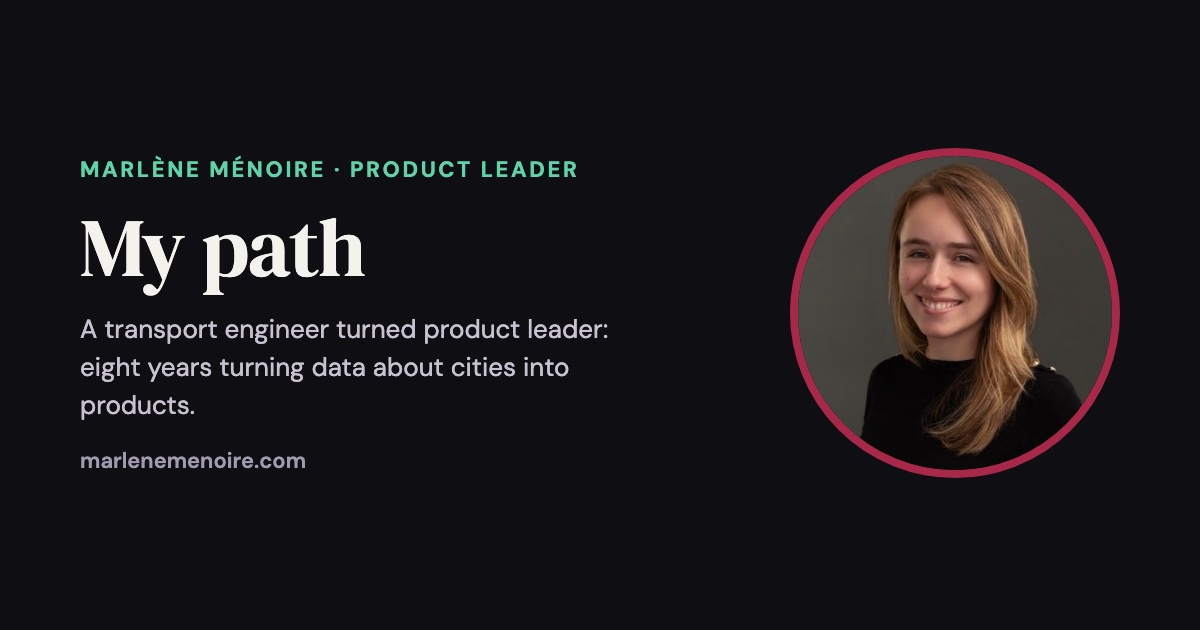
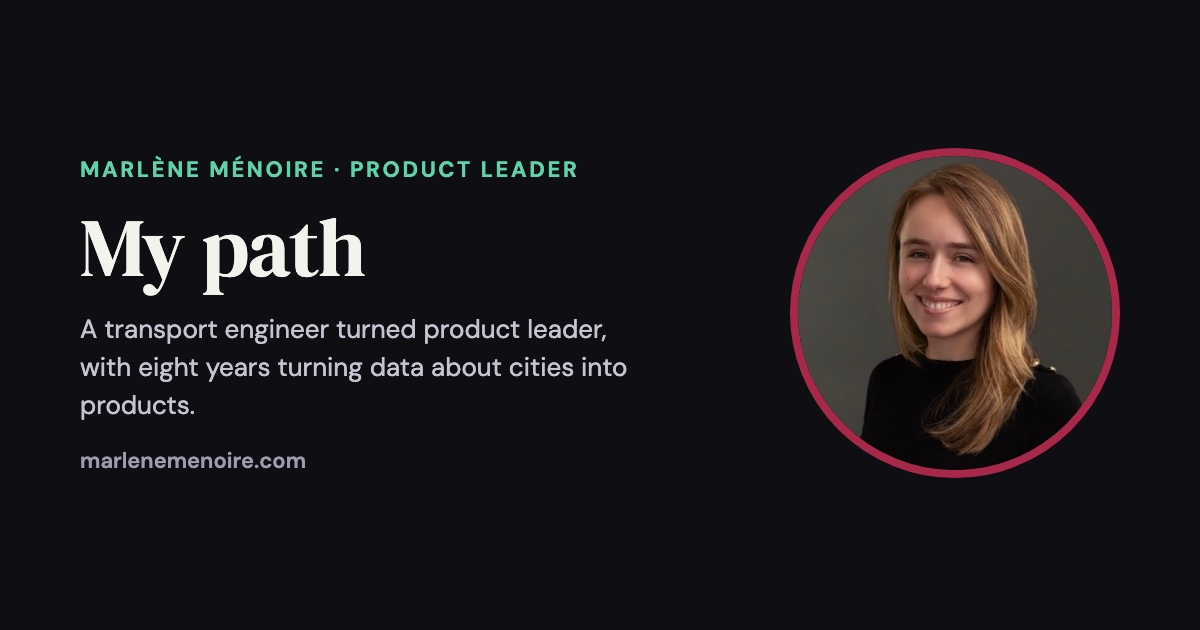
Moins de deux-points dans les textes
Phrases sur Singapour, accroche de Mon parcours, texte Explain,
descriptions et images de partage reformulées sans deux-points ; seul
le titre « Mon métier : choisir quoi construire » le garde.

Changed region(s): [[0.0617, 0.573, 0.5242, 0.6032]]

diff --git a/site.js b/site.js
@@ -17,8 +17,8 @@ const TEXTS = {
     title1: "L'IA accélère le code.",
     title2: 'Mon métier\u00a0: choisir quoi construire.',
     bio: "Product leader depuis 8 ans sur des produits data pour la ville (mobilité, commerce, bâtiment), je mets en place les systèmes d'IA qui laissent aux équipes produit le temps des vraies décisions.",
-    bio2: "Basée à Singapour\u00a0: avec plaisir pour un café si vous êtes dans la région.",
-    bio3: "Mes sujets de prédilection\u00a0: le produit et l'IA. Mais toujours curieuse de découvrir de nouveaux domaines.",
+    bio2: "Basée à Singapour, avec plaisir pour un café si vous êtes dans la région.",
+    bio3: "Mes sujets de prédilection sont le produit et l'IA, mais je reste curieuse de découvrir de nouveaux domaines.",
     pathLabel: 'Mon parcours',
     stonalYears: '2023 – auj.',
     stonalRole: 'PM, Head of Product, puis CPO en mission via Freelance.com',
@@ -103,7 +103,7 @@ const TEXTS = {
     r8t: "Partout, même hors ligne",
     r8d: "S'installe sur ton téléphone, fonctionne sans connexion à la salle, en français et en anglais.",
     aboutPageTitle: 'Mon parcours · Marlène Ménoire',
-    aboutTagline: "Ingénieure transport devenue product leader : huit ans à transformer des données sur la ville en produits qui aident à décider.",
+    aboutTagline: "Ingénieure transport devenue product leader, avec huit ans passés à transformer des données sur la ville en produits qui aident à décider.",
     seeApps: 'Voir mes applis',
     backHome: '← Accueil',
     xpLabel: 'Expériences',
@@ -115,7 +115,7 @@ const TEXTS = {
     mytrafficText: "Des données de fréquentation et de trafic pour aider les enseignes à choisir où ouvrir. J'ai repensé l'expérience à partir des besoins de leurs équipes d'expansion.",
     fig5: "du chiffre d'affaires", fig6b: 'Mensuel → hebdo', fig6: "fréquence d'usage",
     explainJob: 'Consultante, modélisation des transports',
-    explainText: 'Des modèles de transport multimodaux pour les pouvoirs publics : le Grand Paris Express, les prévisions nationales de trafic routier, la refonte d’un réseau ferroviaire régional.',
+    explainText: 'Des modèles de transport multimodaux pour les pouvoirs publics, dont le Grand Paris Express, les prévisions nationales de trafic routier et la refonte d’un réseau ferroviaire régional.',
     aiWorkTitle: "L'IA, au travail",
     ai1t: 'Une base de connaissances générée depuis le code', ai1d: "La référence commune de l'entreprise et des outils d'IA. Elle écrit seule le guide utilisateur et les notes de version.",
     ai2t: 'Les retours clients pré-analysés', ai2d: 'Consolidés pour les équipes, avec les cas simples traités automatiquement. En cours.',
@@ -128,8 +128,8 @@ const TEXTS = {
     paperSub: 'Article scientifique, première autrice · Transportation Research Procedia, Elsevier, 2020',
     paperText: "Écrit lors d'un stage de recherche à Polytechnique Montréal, avec les données de Communauto. Au-delà du nombre de voitures, la marchabilité, la démographie et l'accès au bus comptent.",
     aboutCtaTitle: "Envie d'en parler ?",
-    aboutCtaText: "Basée à Singapour\u00a0: avec plaisir pour un café si vous êtes dans la région.",
-    aboutCtaText2: "Mes sujets de prédilection\u00a0: le produit et l'IA. Mais toujours curieuse de découvrir de nouveaux domaines.",
+    aboutCtaText: "Basée à Singapour, avec plaisir pour un café si vous êtes dans la région.",
+    aboutCtaText2: "Mes sujets de prédilection sont le produit et l'IA, mais je reste curieuse de découvrir de nouveaux domaines.",
     legalLink: "Mentions et confidentialité",
     mentionsPageTitle: "Mentions et confidentialité · Marlène Ménoire",
     legalTitle: "Mentions et confidentialité",
@@ -163,8 +163,8 @@ const TEXTS = {
     title1: 'AI made code fast.',
     title2: 'My job: deciding what to build.',
     bio: 'A product leader for 8 years on data products for cities (mobility, retail, buildings), I set up the AI systems that give product teams time for the decisions that matter.',
-    bio2: "Based in Singapore: happy to grab a coffee if you're in the area.",
-    bio3: "My favourite topics are product and AI, but I'm always curious to explore new fields.",
+    bio2: "Based in Singapore, happy to grab a coffee if you're in the area.",
+    bio3: "My favourite topics are product and AI, and I'm always curious to explore new fields.",
     pathLabel: 'My path',
     stonalYears: '2023 – now',
     stonalRole: 'PM, Head of Product, then CPO on assignment via Freelance.com',
@@ -249,7 +249,7 @@ const TEXTS = {
     r8t: "Everywhere, even offline",
     r8d: "Installs on your phone, works without a connection at the gym, in English and French.",
     aboutPageTitle: 'My path · Marlène Ménoire',
-    aboutTagline: 'A transport engineer turned product leader: eight years turning data about cities into products that help people decide.',
+    aboutTagline: "A transport engineer turned product leader, with eight years spent turning data about cities into products that help people decide.",
     seeApps: 'See my apps',
     backHome: '← Home',
     xpLabel: 'Experience',
@@ -261,7 +261,7 @@ const TEXTS = {
     mytrafficText: "Footfall and traffic data to help retailers choose where to open. I redesigned the experience around what their expansion teams needed to get done.",
     fig5: 'of company revenue', fig6b: 'Monthly → weekly', fig6: 'usage',
     explainJob: 'Consultant, transport modelling',
-    explainText: 'Multimodal transport models for public authorities: the Grand Paris Express, national road traffic forecasts, a regional rail redesign.',
+    explainText: 'Multimodal transport models for public authorities, including the Grand Paris Express, national road traffic forecasts and a regional rail redesign.',
     aiWorkTitle: 'AI, at work',
     ai1t: 'A knowledge base generated from the code', ai1d: 'The shared reference for the company and its AI tools. It writes the user guide and release notes on its own.',
     ai2t: 'Customer feedback, pre-analysed', ai2d: 'Consolidated for the teams, with simple cases handled automatically. In progress.',
@@ -274,8 +274,8 @@ const TEXTS = {
     paperSub: 'Peer-reviewed paper, lead author · Transportation Research Procedia, Elsevier, 2020',
     paperText: 'Written during a research internship at Polytechnique Montréal, with data from Communauto. Beyond the number of cars, walkability, demographics and bus access all matter.',
     aboutCtaTitle: 'Want to talk?',
-    aboutCtaText: "Based in Singapore: happy to grab a coffee if you're in the area.",
-    aboutCtaText2: "My favourite topics are product and AI, but I'm always curious to explore new fields.",
+    aboutCtaText: "Based in Singapore, happy to grab a coffee if you're in the area.",
+    aboutCtaText2: "My favourite topics are product and AI, and I'm always curious to explore new fields.",
     legalLink: "Legal notice and privacy",
     mentionsPageTitle: "Legal notice and privacy · Marlène Ménoire",
     legalTitle: "Legal notice and privacy",

diff --git a/fr/about.html b/fr/about.html
@@ -5,7 +5,7 @@
 <meta charset="UTF-8">
 <meta name="viewport" content="width=device-width, initial-scale=1.0">
 <title>Mon parcours · Marlène Ménoire</title>
-<meta name="description" content="Le parcours de Marlène Ménoire : ingénieure transport (ENTPE), puis product leader chez Mytraffic et Stonal. Huit ans de produits data pour la ville.">
+<meta name="description" content="Le parcours de Marlène Ménoire, ingénieure transport (ENTPE) devenue product leader chez Mytraffic et Stonal. Huit ans de produits data pour la ville.">
 <meta name="theme-color" content="#0f0e13">
 <link rel="icon" type="image/svg+xml" href="../favicon.svg">
 <link rel="apple-touch-icon" href="/apple-touch-icon.png">
@@ -23,7 +23,7 @@
 <link rel="alternate" hreflang="fr" href="https://marlenemenoire.com/fr/about.html">
 <link rel="alternate" hreflang="x-default" href="https://marlenemenoire.com/about.html">
 <meta property="og:title" content="Mon parcours · Marlène Ménoire">
-<meta property="og:description" content="Ingénieure transport devenue product leader : huit ans à transformer des données sur la ville en produits qui aident à décider.">
+<meta property="og:description" content="Ingénieure transport devenue product leader, avec huit ans passés à transformer des données sur la ville en produits qui aident à décider.">
 <meta property="og:image" content="https://marlenemenoire.com/img/og-about-fr.jpg">
 <meta name="twitter:card" content="summary_large_image">
 <link rel="preconnect" href="https://fonts.googleapis.com">
@@ -52,7 +52,7 @@
     <img class="about-photo" src="../photo.jpg" alt="Marlène Ménoire" width="220" height="220" onerror="this.remove()">
     <span class="kicker" data-i18n="kicker">Bonjour, je suis Marlène</span>
     <h1 data-i18n="aboutName">Mon parcours</h1>
-    <p class="detail-tagline" data-i18n="aboutTagline">Ingénieure transport devenue product leader : huit ans à transformer des données sur la ville en produits qui aident à décider.</p>
+    <p class="detail-tagline" data-i18n="aboutTagline">Ingénieure transport devenue product leader, avec huit ans passés à transformer des données sur la ville en produits qui aident à décider.</p>
     <div class="detail-actions">
       <a class="btn green" data-linkedin href="#" hidden><svg width="18" height="18" viewBox="0 0 24 24" fill="currentColor" aria-hidden="true"><path d="M4.98 3.5a2.5 2.5 0 1 1 0 5 2.5 2.5 0 0 1 0-5zM3 9.5h4V21H3zM9.5 9.5h3.8v1.6h.06c.53-1 1.83-2.06 3.77-2.06 4.03 0 4.77 2.65 4.77 6.1V21h-4v-5.1c0-1.22-.02-2.79-1.7-2.79-1.7 0-1.96 1.33-1.96 2.7V21h-4z"/></svg><span data-i18n="linkedin">Me retrouver sur LinkedIn</span></a>
       <a class="btn outline" href="./#applis" data-i18n="seeApps">Voir mes applis</a>
@@ -96,7 +96,7 @@
       <div class="tl-body">
         <h2>Explain</h2>
         <ul class="roles"><li><b data-i18n="explainJob">Consultante, modélisation des transports</b></li></ul>
-        <p data-i18n="explainText">Des modèles de transport multimodaux pour les pouvoirs publics : le Grand Paris Express, les prévisions nationales de trafic routier, la refonte d’un réseau ferroviaire régional.</p>
+        <p data-i18n="explainText">Des modèles de transport multimodaux pour les pouvoirs publics, dont le Grand Paris Express, les prévisions nationales de trafic routier et la refonte d’un réseau ferroviaire régional.</p>
       </div>
     </article>
   </section>
@@ -130,8 +130,8 @@
 
   <section class="detail-cta about-cta">
     <h2 data-i18n="aboutCtaTitle">Envie d'en parler ?</h2>
-    <p data-i18n="aboutCtaText">Basée à Singapour : avec plaisir pour un café si vous êtes dans la région.</p>
-    <p data-i18n="aboutCtaText2">Mes sujets de prédilection : le produit et l'IA. Mais toujours curieuse de découvrir de nouveaux domaines.</p>
+    <p data-i18n="aboutCtaText">Basée à Singapour, avec plaisir pour un café si vous êtes dans la région.</p>
+    <p data-i18n="aboutCtaText2">Mes sujets de prédilection sont le produit et l'IA, mais je reste curieuse de découvrir de nouveaux domaines.</p>
     <div class="detail-actions">
       <a class="btn green" data-linkedin href="#" hidden><svg width="18" height="18" viewBox="0 0 24 24" fill="currentColor" aria-hidden="true"><path d="M4.98 3.5a2.5 2.5 0 1 1 0 5 2.5 2.5 0 0 1 0-5zM3 9.5h4V21H3zM9.5 9.5h3.8v1.6h.06c.53-1 1.83-2.06 3.77-2.06 4.03 0 4.77 2.65 4.77 6.1V21h-4v-5.1c0-1.22-.02-2.79-1.7-2.79-1.7 0-1.96 1.33-1.96 2.7V21h-4z"/></svg><span data-i18n="linkedin">Me retrouver sur LinkedIn</span></a>
       <a class="btn outline" href="./#applis" data-i18n="seeApps">Voir mes applis</a>

diff --git a/about.html b/about.html
@@ -5,7 +5,7 @@
 <meta charset="UTF-8">
 <meta name="viewport" content="width=device-width, initial-scale=1.0">
 <title>My path · Marlène Ménoire</title>
-<meta name="description" content="The path of Marlène Ménoire: transport engineer (ENTPE), then product leader at Mytraffic and Stonal. Eight years of data products for cities.">
+<meta name="description" content="The path of Marlène Ménoire, a transport engineer (ENTPE) turned product leader at Mytraffic and Stonal. Eight years of data products for cities.">
 <meta name="theme-color" content="#0f0e13">
 <link rel="icon" type="image/svg+xml" href="favicon.svg">
 <link rel="apple-touch-icon" href="/apple-touch-icon.png">
@@ -23,7 +23,7 @@
 <link rel="alternate" hreflang="fr" href="https://marlenemenoire.com/fr/about.html">
 <link rel="alternate" hreflang="x-default" href="https://marlenemenoire.com/about.html">
 <meta property="og:title" content="My path · Marlène Ménoire">
-<meta property="og:description" content="A transport engineer turned product leader: eight years turning data about cities into products that help people decide.">
+<meta property="og:description" content="A transport engineer turned product leader, with eight years spent turning data about cities into products that help people decide.">
 <meta property="og:image" content="https://marlenemenoire.com/img/og-about-en.jpg">
 <meta name="twitter:card" content="summary_large_image">
 <link rel="preconnect" href="https://fonts.googleapis.com">
@@ -52,7 +52,7 @@
     <img class="about-photo" src="photo.jpg" alt="Marlène Ménoire" width="220" height="220" onerror="this.remove()">
     <span class="kicker" data-i18n="kicker">Hi, I'm Marlène</span>
     <h1 data-i18n="aboutName">My path</h1>
-    <p class="detail-tagline" data-i18n="aboutTagline">A transport engineer turned product leader: eight years turning data about cities into products that help people decide.</p>
+    <p class="detail-tagline" data-i18n="aboutTagline">A transport engineer turned product leader, with eight years spent turning data about cities into products that help people decide.</p>
     <div class="detail-actions">
       <a class="btn green" data-linkedin href="#" hidden><svg width="18" height="18" viewBox="0 0 24 24" fill="currentColor" aria-hidden="true"><path d="M4.98 3.5a2.5 2.5 0 1 1 0 5 2.5 2.5 0 0 1 0-5zM3 9.5h4V21H3zM9.5 9.5h3.8v1.6h.06c.53-1 1.83-2.06 3.77-2.06 4.03 0 4.77 2.65 4.77 6.1V21h-4v-5.1c0-1.22-.02-2.79-1.7-2.79-1.7 0-1.96 1.33-1.96 2.7V21h-4z"/></svg><span data-i18n="linkedin">Find me on LinkedIn</span></a>
       <a class="btn outline" href="./#applis" data-i18n="seeApps">See my apps</a>
@@ -96,7 +96,7 @@
       <div class="tl-body">
         <h2>Explain</h2>
         <ul class="roles"><li><b data-i18n="explainJob">Consultant, transport modelling</b></li></ul>
-        <p data-i18n="explainText">Multimodal transport models for public authorities: the Grand Paris Express, national road traffic forecasts, a regional rail redesign.</p>
+        <p data-i18n="explainText">Multimodal transport models for public authorities, including the Grand Paris Express, national road traffic forecasts and a regional rail redesign.</p>
       </div>
     </article>
   </section>
@@ -130,8 +130,8 @@
 
   <section class="detail-cta about-cta">
     <h2 data-i18n="aboutCtaTitle">Want to talk?</h2>
-    <p data-i18n="aboutCtaText">Based in Singapore: happy to grab a coffee if you're in the area.</p>
-    <p data-i18n="aboutCtaText2">My favourite topics are product and AI, but I'm always curious to explore new fields.</p>
+    <p data-i18n="aboutCtaText">Based in Singapore, happy to grab a coffee if you're in the area.</p>
+    <p data-i18n="aboutCtaText2">My favourite topics are product and AI, and I'm always curious to explore new fields.</p>
     <div class="detail-actions">
       <a class="btn green" data-linkedin href="#" hidden><svg width="18" height="18" viewBox="0 0 24 24" fill="currentColor" aria-hidden="true"><path d="M4.98 3.5a2.5 2.5 0 1 1 0 5 2.5 2.5 0 0 1 0-5zM3 9.5h4V21H3zM9.5 9.5h3.8v1.6h.06c.53-1 1.83-2.06 3.77-2.06 4.03 0 4.77 2.65 4.77 6.1V21h-4v-5.1c0-1.22-.02-2.79-1.7-2.79-1.7 0-1.96 1.33-1.96 2.7V21h-4z"/></svg><span data-i18n="linkedin">Find me on LinkedIn</span></a>
       <a class="btn outline" href="./#applis" data-i18n="seeApps">See my apps</a>

diff --git a/tools/og-card.html b/tools/og-card.html
@@ -33,9 +33,9 @@
   const q = new URLSearchParams(location.search), lang = q.get('lang') || 'en', page = q.get('page') || 'home';
   const T = {
     en: { kicker: 'Marlène Ménoire · Product leader', home: 'AI made code fast. <em>My job: deciding what to build.</em>', homeSub: 'Eight years of data products for cities · Based in\u00a0Singapore',
-      about: 'My path', aboutSub: 'A transport engineer turned product leader: eight years turning data about cities into products.', path: ['Stonal', 'Mytraffic', 'Explain'] },
+      about: 'My path', aboutSub: 'A transport engineer turned product leader, with eight years turning data about cities into products.', path: ['Stonal', 'Mytraffic', 'Explain'] },
     fr: { kicker: 'Marlène Ménoire · Product leader', home: 'L’IA accélère le code. <em>Mon métier&nbsp;: choisir quoi construire.</em>', homeSub: 'Huit ans de produits data pour la ville · À\u00a0Singapour',
-      about: 'Mon parcours', aboutSub: 'Ingénieure transport devenue product leader : huit ans à transformer des données sur la ville en produits.', path: ['Stonal', 'Mytraffic', 'Explain'] },
+      about: 'Mon parcours', aboutSub: 'Ingénieure transport devenue product leader, avec huit ans à transformer des données sur la ville en produits.', path: ['Stonal', 'Mytraffic', 'Explain'] },
   }[lang];
   document.getElementById('kicker').textContent = T.kicker;
   document.getElementById('title').innerHTML = page === 'about' ? T.about : T.home;

diff --git a/fr/index.html b/fr/index.html
@@ -54,8 +54,8 @@
       <span class="kicker" data-i18n="homeKicker">Marlène Ménoire · Product leader</span>
       <h1 class="long"><span data-i18n="title1">L'IA accélère le code.</span> <em data-i18n="title2">Mon métier : choisir quoi construire.</em></h1>
       <p class="bio" data-i18n="bio">Product leader depuis 8 ans sur des produits data pour la ville (mobilité, commerce, bâtiment), je mets en place les systèmes d'IA qui laissent aux équipes produit le temps des vraies décisions.</p>
-      <p class="bio" data-i18n="bio2">Basée à Singapour : avec plaisir pour un café si vous êtes dans la région.</p>
-      <p class="bio" data-i18n="bio3">Mes sujets de prédilection : le produit et l'IA. Mais toujours curieuse de découvrir de nouveaux domaines.</p>
+      <p class="bio" data-i18n="bio2">Basée à Singapour, avec plaisir pour un café si vous êtes dans la région.</p>
+      <p class="bio" data-i18n="bio3">Mes sujets de prédilection sont le produit et l'IA, mais je reste curieuse de découvrir de nouveaux domaines.</p>
       <div class="hero-links">
         <a class="about-link" href="about.html"><img src="../photo.jpg" alt="" width="28" height="28"><span data-i18n="aboutName">Mon parcours</span></a>
         <a class="linkedin" data-linkedin href="#" hidden>

diff --git a/index.html b/index.html
@@ -54,8 +54,8 @@
       <span class="kicker" data-i18n="homeKicker">Marlène Ménoire · Product leader</span>
       <h1 class="long"><span data-i18n="title1">AI made code fast.</span> <em data-i18n="title2">My job: deciding what to build.</em></h1>
       <p class="bio" data-i18n="bio">A product leader for 8 years on data products for cities (mobility, retail, buildings), I set up the AI systems that give product teams time for the decisions that matter.</p>
-      <p class="bio" data-i18n="bio2">Based in Singapore: happy to grab a coffee if you're in the area.</p>
-      <p class="bio" data-i18n="bio3">My favourite topics are product and AI, but I'm always curious to explore new fields.</p>
+      <p class="bio" data-i18n="bio2">Based in Singapore, happy to grab a coffee if you're in the area.</p>
+      <p class="bio" data-i18n="bio3">My favourite topics are product and AI, and I'm always curious to explore new fields.</p>
       <div class="hero-links">
         <a class="about-link" href="about.html"><img src="photo.jpg" alt="" width="28" height="28"><span data-i18n="aboutName">My path</span></a>
         <a class="linkedin" data-linkedin href="#" hidden>
